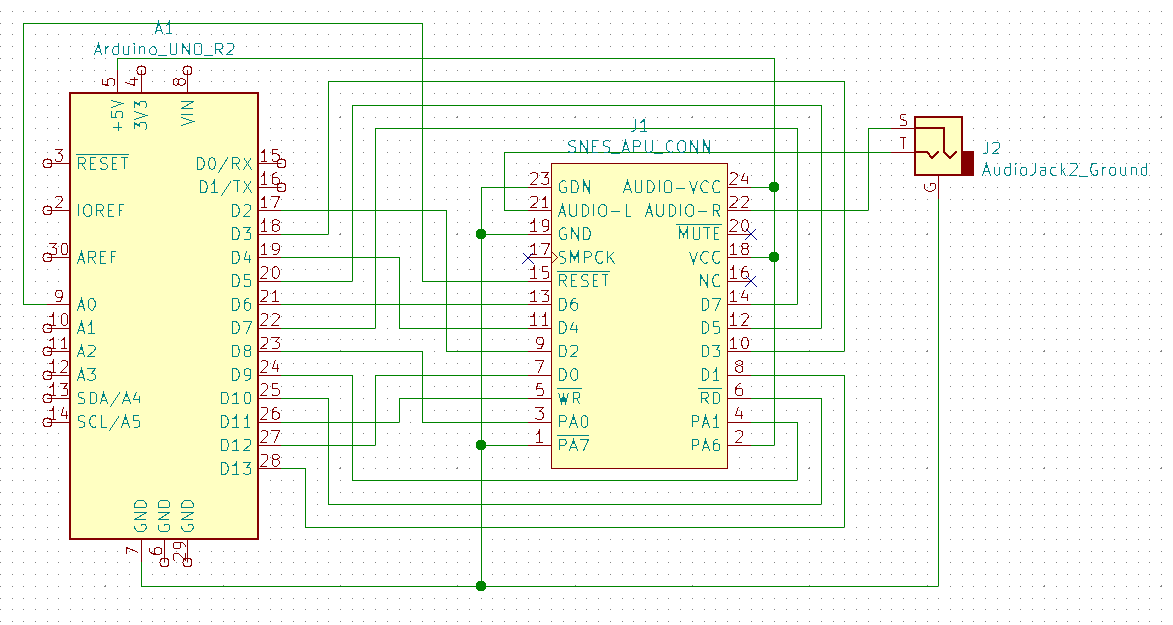
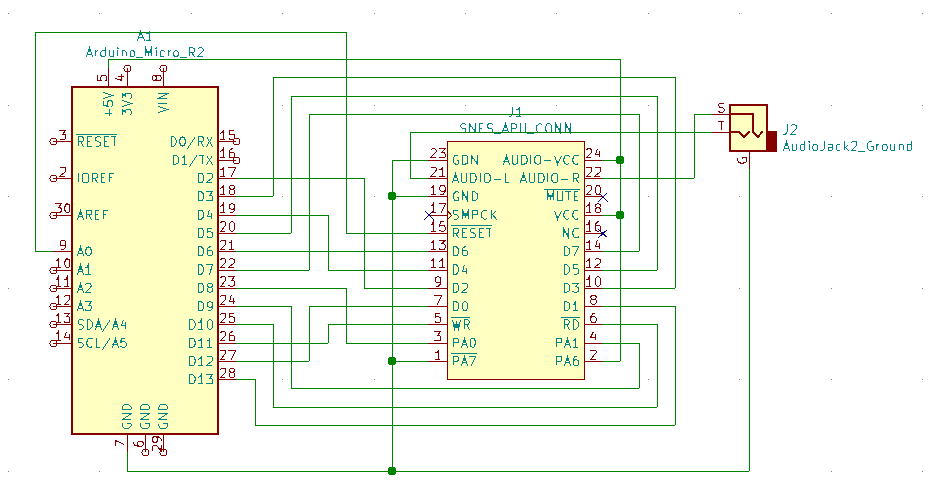
remove arduino uno from supported boards

Changed region(s): [[0.0, 0.0298, 0.9831, 0.9543]]

diff --git a/README.md b/README.md
@@ -1,6 +1,6 @@
 # SPC Player
 
-Play original SNES music files with original hardware from your browser.
+SNES SPC music file player in your browser with original hardware and Arduino.
 
 TODO: Update picture.
 ![arduino-spc](./images/arduino-apu-connected.jpg?raw=true "APU and Arduino connected")
@@ -19,6 +19,7 @@ TODO: Update picture.
   * [Uploading Song With Python](#uploading-song-with-python)
 * [Debugging APU Connections](#debugging-apu-connections)
 * [How it Works?](#how-it-works)
+* [Using Other Arduino Boads](#using-other-arduino-boads)
 * [Resources](#resources)
 
 <!-- vim-markdown-toc -->
@@ -26,7 +27,7 @@ TODO: Update picture.
 ## What is this?
 
 With this project you are able to play original SNES SPC audio files from your
-browser. All you need is Arduino Micro/UNO and original SNES Audio Processing Unit
+browser. All you need is Arduino Micro and original SNES Audio Processing Unit
 (APU). Playing songs also works from Python command-line tool instead of a
 browser.
 
@@ -73,9 +74,7 @@ Signal and symbol explanations:
 * **MUTE** is active low mute output from DSP, it's 0V when DSP is muted and 5V when
     not.
 
-Here is how you need to connect APU to Arduino. Project has been tested with
-same pinout with Arduino Micro and Arduino UNO. Should work with other Arduino
-types too.
+Here is how you need to connect APU to Arduino Micro:
 
 ![scema](./images/schema.png?raw=true "Schema")
 
@@ -93,11 +92,6 @@ Commenting out this line makes code use normal serial line instead of WebUSB
 serial. WebUSB serial is needed for communicating with the browser and both of
 them cannot be used at the same time.
 
-**Note**: Arduino UNO is not supported by WebUSB, for that you need Arduino
-Micro or other compatible device. For more information check
-[this](https://github.com/webusb/arduino). With UNO or similar Arduino you can
-only use Python frontend.
-
 ### Uploading Arduino Code
 
 Arduino based backend code uses [PlatformIO CLI](https://platformio.org/) tool
@@ -114,8 +108,6 @@ Micro, you can simply run:
 ```
 pio run
 ```
-
-If you are using Aruino UNO then run `pio run --environment uno`.
 
 This should install needed Arduino toolchain and libraries, compile the source
 code and upload it to Arduino board.
@@ -195,6 +187,19 @@ lines.  After uploading APU's RAM and it's registers, Python instructs Arduino
 to tell APU to start executing the song code. After this APU will keep playing
 the song until reset.
 
+## Using Other Arduino Boads
+
+You can also port this code to work on other Arduino boards. Keep in mind that
+WebUSB serial cannot be used with all boards. For WebUSB serial support check
+[this](https://github.com/webusb/arduino).
+
+For porting the code to different Arduino board. Take a look at file
+`backend/src/SpcHal.cpp`. Which is Hardware Abstraction Layer (HAL) for the
+platform. Here you can find the low level data communication functions.
+Functions are directly using pin IO registers for speed purposes. But the
+equivalent Arduino code is also there commented out which uses `digitalRead` and
+`digitalWrite` functions. Which is much easier to understand. Note that using
+`digitalRead` and `digitalWrite` functions the song upload will be a lot slower!
 
 ## Resources
 
